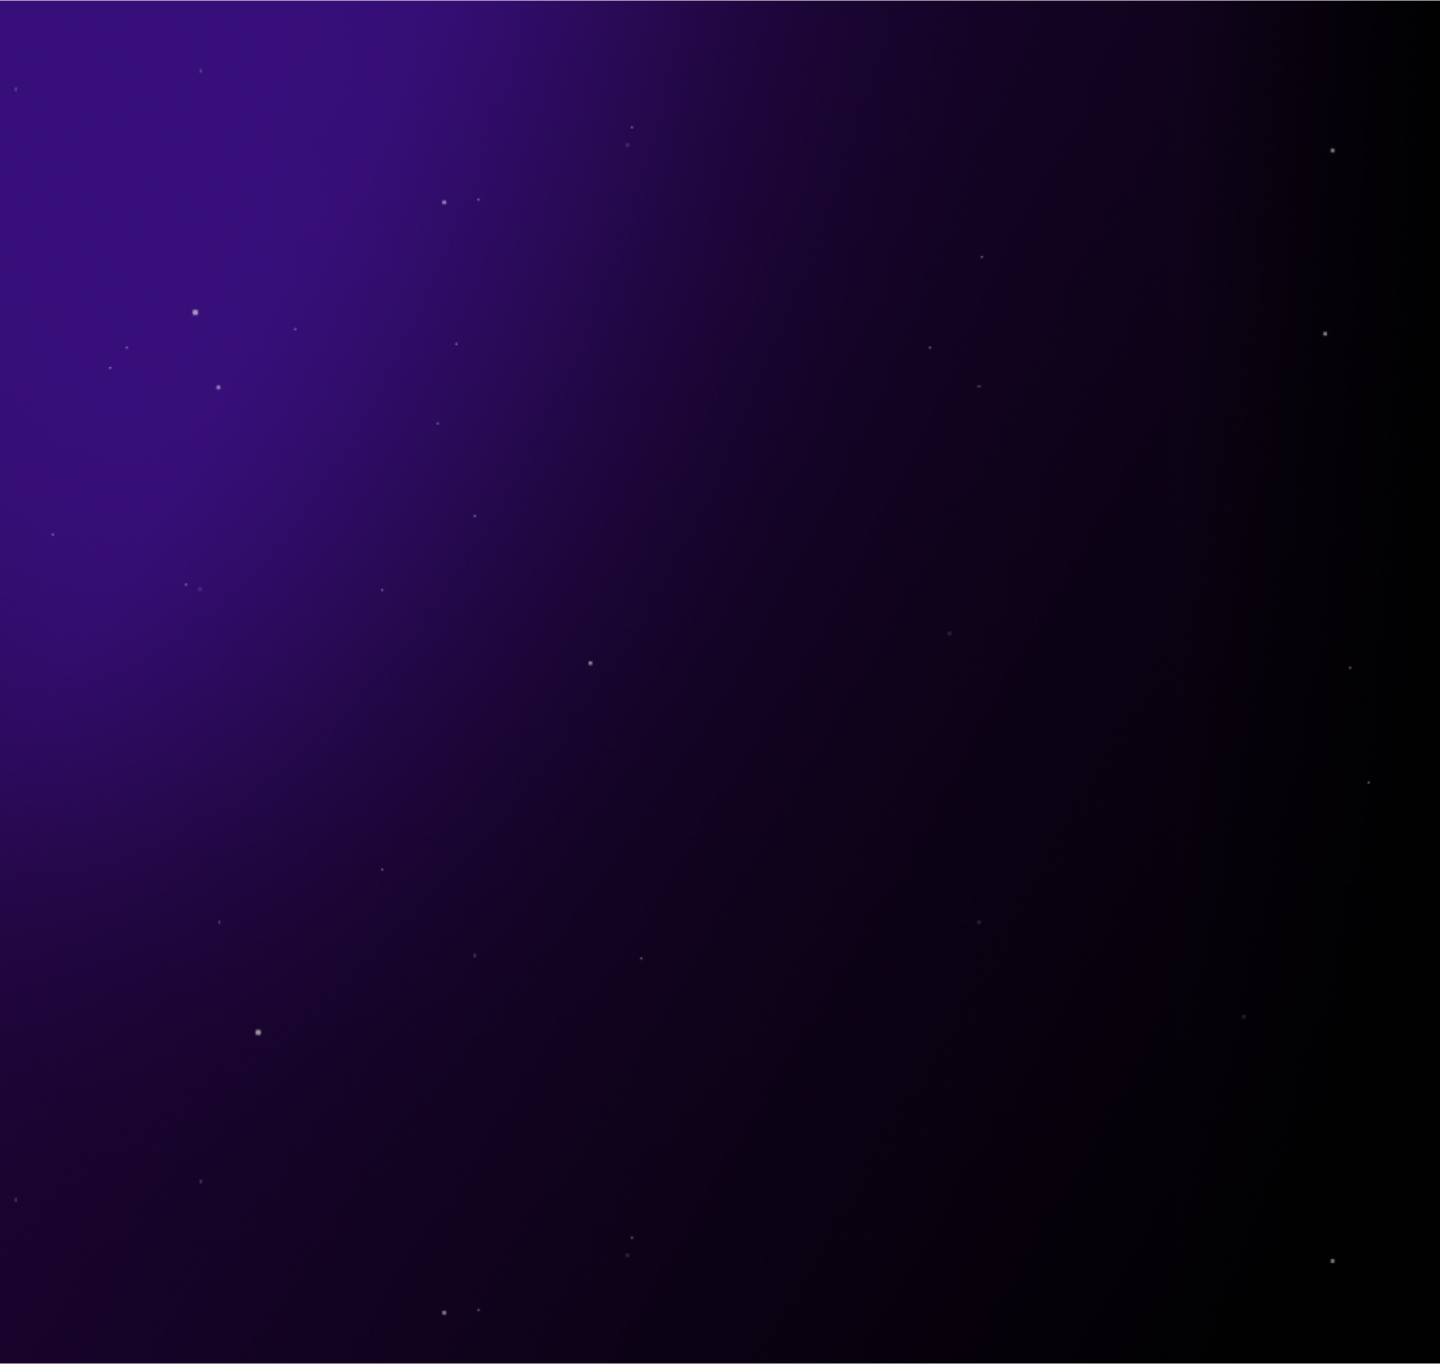
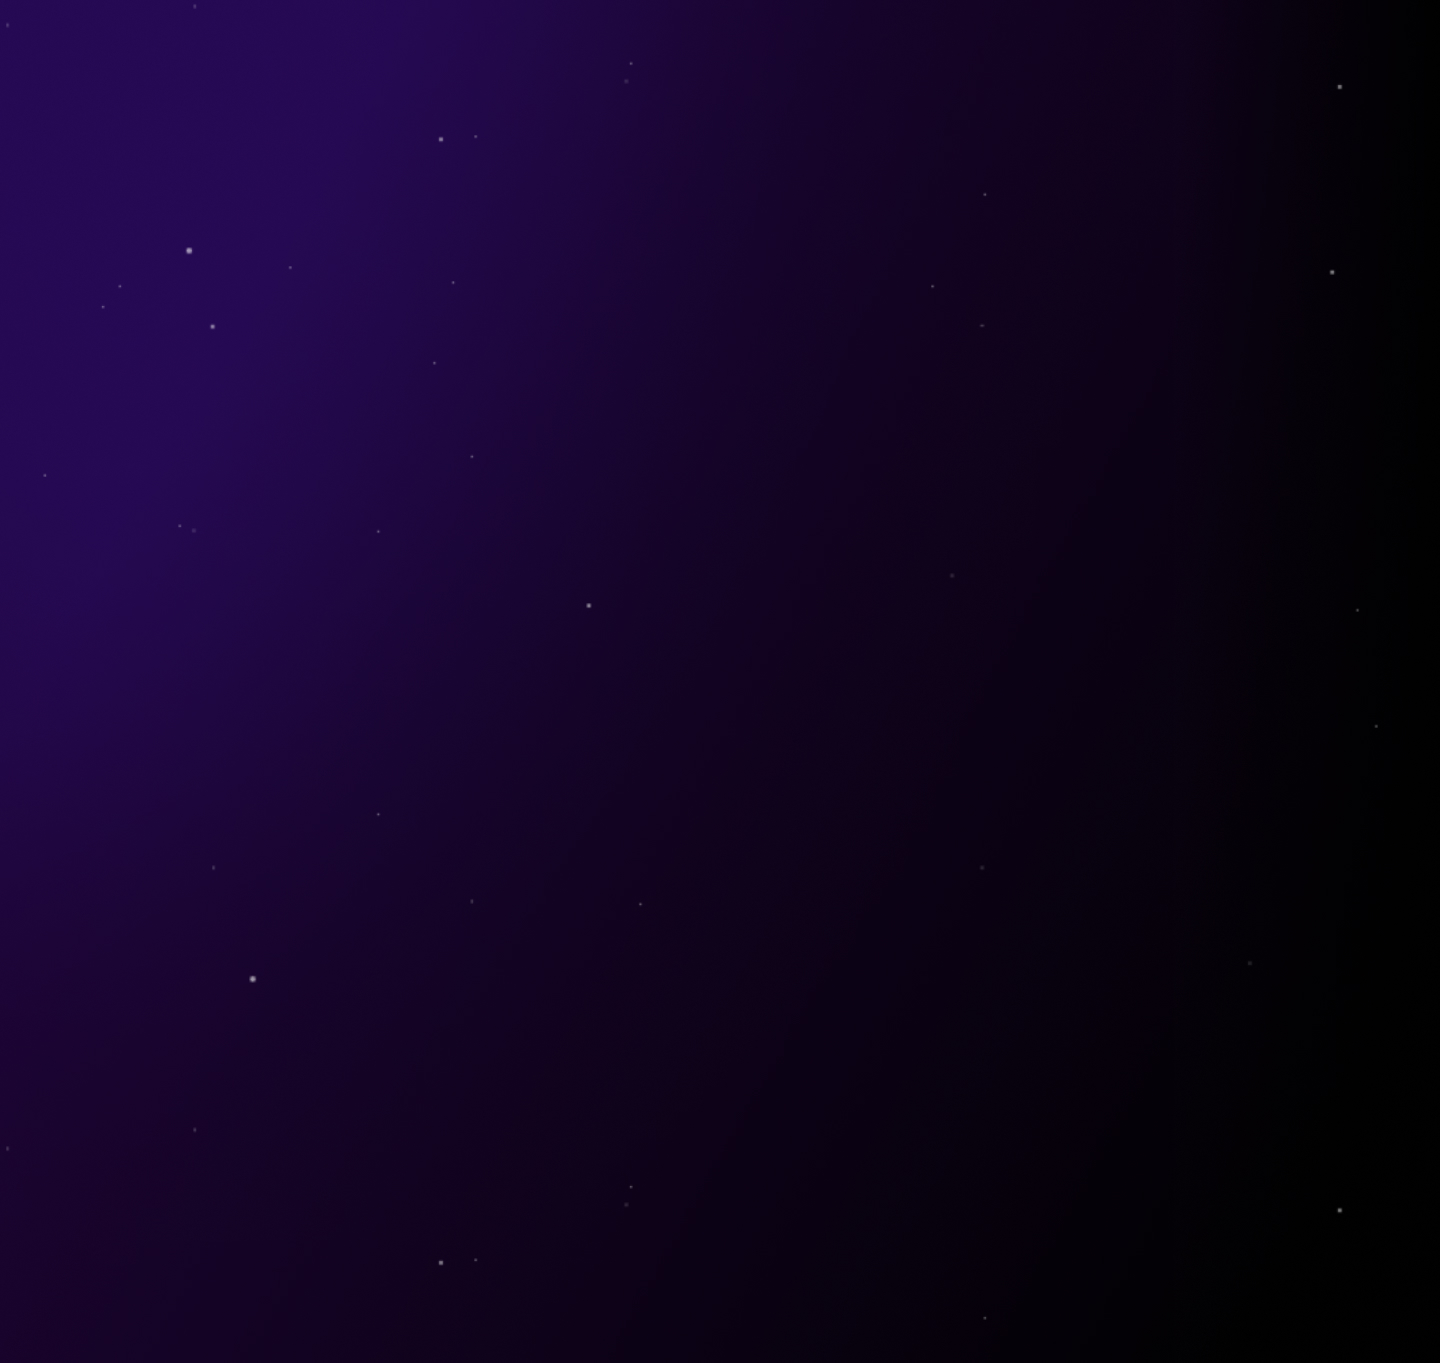
updated landing background

Changed region(s): [[0.0, 0.0, 0.4375, 0.5547]]

diff --git a/landing.html b/landing.html
@@ -20,7 +20,7 @@
         }
         body {
             padding: 0 20px;
-            background: url(images/landing/bg_new.jpg) no-repeat black;
+            background: url(images/landing/bg_new.jpg?1) no-repeat black;
         }
         header, main, footer {
             max-width: 1280px;
